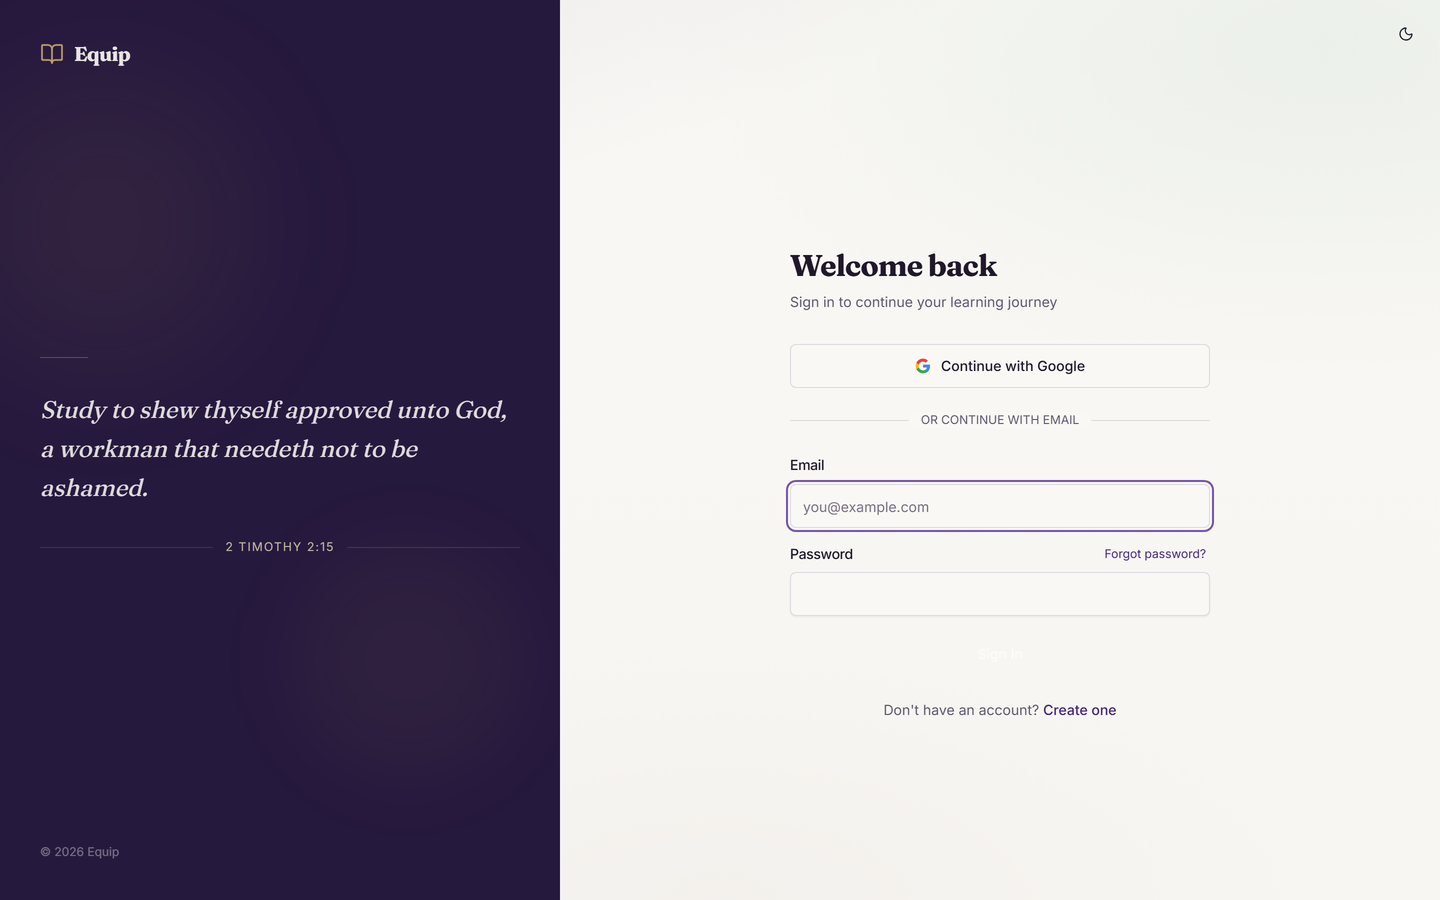
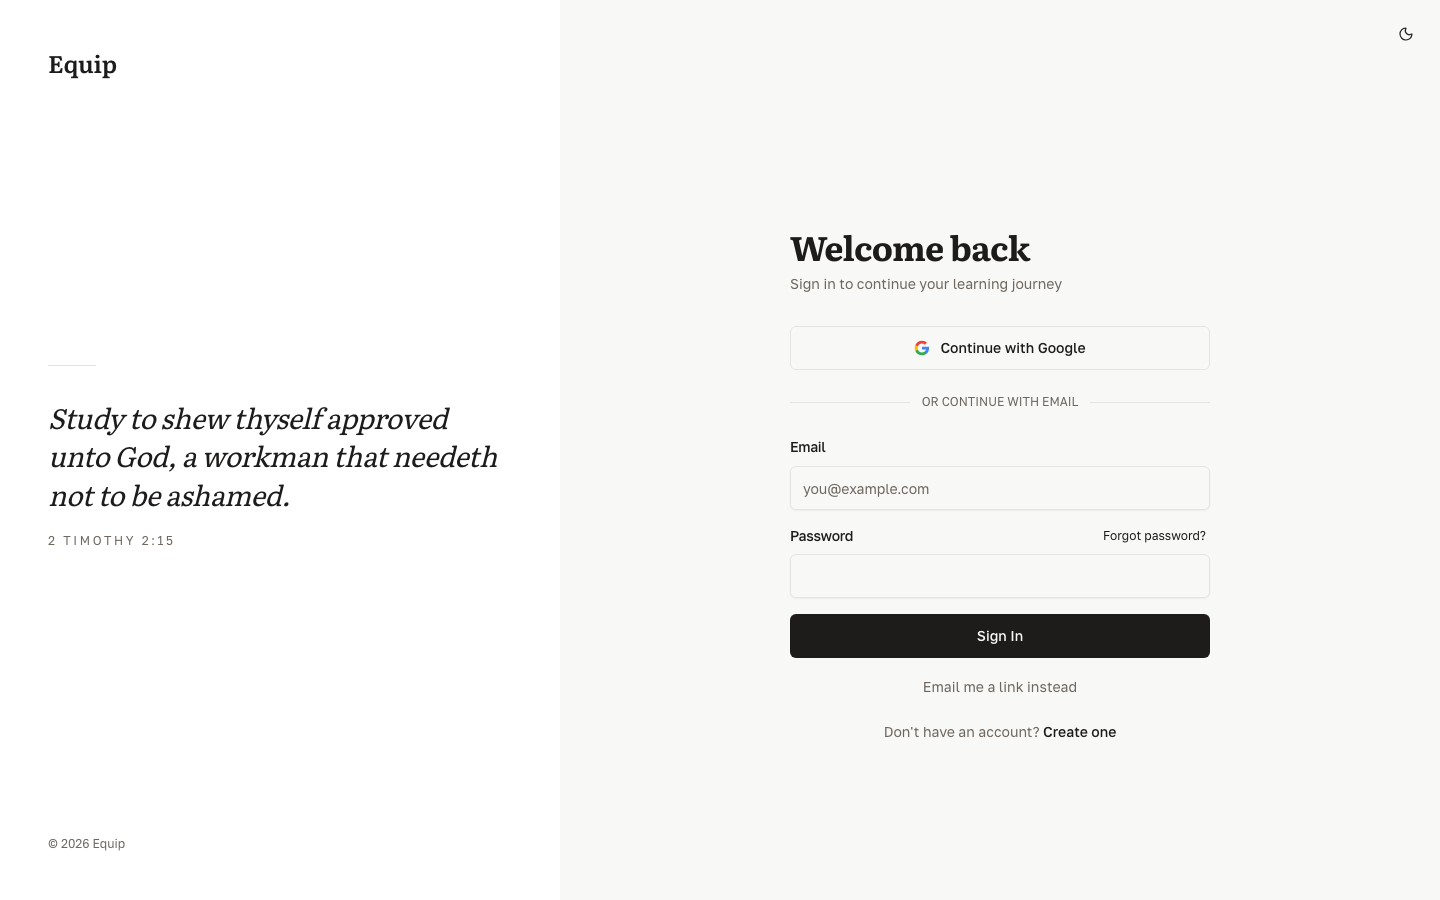
chore: tidy the public repository after the staging teardown (#1287)
* chore: remove staging leftovers from CSP, config and seed scripts

The staging deployments and api-staging.equipbible.com are gone. Drop
the host from the CSP connect-src and its test, and reword the config,
env example and seed-script notes for production, local and preview.

* docs: rename STAGING.md to E2E.md and drop staging history

The doc now describes only the local stack authenticated e2e runs on.
Links in the README, DEPLOYMENT, e2e sources and Supabase CI files are
updated; comments in frontend-e2e.yml are left for a follow-up so this
does not conflict with the Actions pinning PR.

* docs(adr): index ADR-012 and explain why numbering starts at 010

* chore: remove unused docs/marketing dev.to cover

The 1.1 MB cover carried the retired brand and nothing links to it.

* docs(security): mention private vulnerability reporting

Private vulnerability reporting is enabled on the repository, so list it
next to the support address, and state plainly that there are no tagged
releases.

* chore: remove personal email addresses from docs and scripts

Monitors and OBSERVABILITY.md now name the public support address, the
language audit takes its account from --account or EQUIP_AUDIT_EMAIL
with no default, and the initials example uses example.com.

* refactor(frontend): stop exporting helpers nothing imports

NOTIFICATION_ICONS, NOTIFICATION_COLORS, asAuthError and
onboardingFinished are only used inside their own modules.
[…]

diff --git a/frontend/src/__tests__/vercelCsp.test.ts b/frontend/src/__tests__/vercelCsp.test.ts
@@ -81,16 +81,15 @@ const REQUIRED_TOKENS: ReadonlyArray<string> = [
   "https://browser-intake-us5-datadoghq.com",
   "https://session-replay-us5-datadoghq.com",
   // Supabase endpoint (auth + REST + realtime websocket). Wildcarded to
-  // ``*.supabase.co`` so the same static CSP works for the production
-  // project AND any ephemeral staging branch (whose project ref differs
-  // and changes on every respawn). The anon key + RLS are the real
+  // ``*.supabase.co`` so the static CSP does not hard-code a project
+  // ref (a local or preview Supabase project has a different one). The
+  // anon key + RLS are the real
   // boundary; broadening from one Supabase project to "any Supabase
   // project" is a marginal relaxation, not a script-exec surface.
   "https://*.supabase.co",
   "wss://*.supabase.co",
-  // Backend API — prod + the staging deployment.
+  // Backend API (production).
   "https://api.equipbible.com",
-  "https://api-staging.equipbible.com",
   // YouTube embeds -- the only iframe origin we whitelist on the SPA.
   "https://www.youtube.com",
   "https://www.youtube-nocookie.com",

diff --git a/frontend/src/components/layout/notifications/notificationMeta.ts b/frontend/src/components/layout/notifications/notificationMeta.ts
@@ -19,7 +19,7 @@ import { formatDate } from "@/i18n/format"
  * dropdown. Consumers that want other mappings (e.g. push notifications)
  * should build their own table rather than import from here.
  */
-export const NOTIFICATION_ICONS: Record<NotificationType, typeof Bell> = {
+const NOTIFICATION_ICONS: Record<NotificationType, typeof Bell> = {
   certificate_approved: Award,
   certificate_rejected: XCircle,
   assignment_graded: ClipboardCheck,
@@ -29,7 +29,7 @@ export const NOTIFICATION_ICONS: Record<NotificationType, typeof Bell> = {
   retake_requested: RotateCcw,
 }
 
-export const NOTIFICATION_COLORS: Record<NotificationType, string> = {
+const NOTIFICATION_COLORS: Record<NotificationType, string> = {
   certificate_approved: "text-success",
   certificate_rejected: "text-destructive",
   assignment_graded: "text-info",

diff --git a/frontend/e2e/global.setup.ts b/frontend/e2e/global.setup.ts
@@ -9,7 +9,7 @@ import { getTestUser, signInViaForm, suppressOnboarding } from "./fixtures/auth"
  * Signs in as each role-test user against whatever Supabase project
  * ``VITE_SUPABASE_URL`` points at — in CI, the local stack
  * ``.github/workflows/frontend-e2e.yml`` boots per run (see
- * ``docs/STAGING.md``) — and saves the resulting browser storage state
+ * ``docs/E2E.md``) — and saves the resulting browser storage state
  * to ``playwright/.auth/<role>.json``. Each subsequent test reuses the
  * file via the role-bound fixtures in ``fixtures/auth.ts``.
  *

diff --git a/frontend/src/lib/names.ts b/frontend/src/lib/names.ts
@@ -19,8 +19,8 @@ export function firstNameOf(fullName: string | null | undefined): string | null 
 }
 
 /**
- * Two-character initials for avatar fallbacks — "Vadym Arnaut" → "VA",
- * "vadimarnaut78@gmail.com" → "VA", "Иван" → "И".
+ * Two-character initials for avatar fallbacks — "Ivan Petrov" → "IP",
+ * "ivan@example.com" → "IE", "Иван" → "И".
  *
  * Splits on whitespace AND ``@`` so an email handle yields a usable
  * pair (the part before the first ``.`` of the local-part isn't worth

diff --git a/frontend/src/components/firstRun/firstRunStep.ts b/frontend/src/components/firstRun/firstRunStep.ts
@@ -44,7 +44,7 @@ export function clearFlag(key: string): void {
  * at the catalogue. ``FirstRunFlow`` reports a cache-only pass to the server,
  * so the next device does not need the cache.
  */
-export function onboardingFinished(user: Pick<FirstRunUser, "id" | "onboarding_completed_at">): boolean {
+function onboardingFinished(user: Pick<FirstRunUser, "id" | "onboarding_completed_at">): boolean {
   return Boolean(user.onboarding_completed_at) || readFlag(firstRunCompletedKey(user.id))
 }
 

diff --git a/frontend/e2e/fixtures/auth.ts b/frontend/e2e/fixtures/auth.ts
@@ -22,7 +22,7 @@
  *
  * Path 1 is wired into CI via ``global.setup.ts`` against the local
  * Supabase stack ``.github/workflows/frontend-e2e.yml`` boots per run
- * (``docs/STAGING.md``). Path 2 (``injectSession``) has no caller yet —
+ * (``docs/E2E.md``). Path 2 (``injectSession``) has no caller yet —
  * it stays here as a documented option for a spec that wants a specific
  * signed-in state without going through the login form.
  */

diff --git a/frontend/src/lib/authError.ts b/frontend/src/lib/authError.ts
@@ -69,7 +69,7 @@ function keyByStatus(status: number | undefined): string | null {
   return null
 }
 
-export function asAuthError(err: unknown): AuthErrorish {
+function asAuthError(err: unknown): AuthErrorish {
   return typeof err === "object" && err !== null ? (err as AuthErrorish) : {}
 }
 

diff --git a/backend/scripts/audit_every_language.py b/backend/scripts/audit_every_language.py
@@ -30,12 +30,13 @@ it cannot name is reported as ``unknown`` rather than as a pass.
 
 Use
 ---
-  python -m scripts.audit_every_language                    # student's view
-  python -m scripts.audit_every_language --verbose          # every sample
+  python -m scripts.audit_every_language --account reader@example.com
+  python -m scripts.audit_every_language --account reader@example.com --verbose
 
 Needs ``SUPABASE_URL`` / ``SUPABASE_SECRET_KEY`` /
-``SUPABASE_PUBLISHABLE_KEY`` to mint a session, and ``EQUIP_API`` to
-point somewhere other than production.
+``SUPABASE_PUBLISHABLE_KEY`` to mint a session, the account to read as
+(``--account`` or ``EQUIP_AUDIT_EMAIL``; there is no default), and
+``EQUIP_API`` to point somewhere other than production.
 """
 
 from __future__ import annotations
@@ -53,7 +54,6 @@ from app.schemas.locale import LOCALE_CODES
 from app.services.language_detection import carries_language, detect_locale
 
 API = os.getenv("EQUIP_API", "https://api.equipbible.com")
-ACCOUNT = os.getenv("EQUIP_AUDIT_EMAIL", "arvavitcorp@gmail.com")
 
 # Enough of each course to be representative without turning the audit
 # into a crawl of every lesson on the platform four times over.
@@ -91,20 +91,20 @@ class Report:
         self.findings.append(Finding(surface, locale, kind, detail))
 
 
-def _session_token(client: httpx.Client) -> str:
+def _session_token(client: httpx.Client, account: str) -> str:
     url = os.environ["SUPABASE_URL"].rstrip("/")
     secret = os.environ["SUPABASE_SECRET_KEY"]
     publishable = os.environ["SUPABASE_PUBLISHABLE_KEY"]
     link = client.post(
         f"{url}/auth/v1/admin/generate_link",
         headers={"Authorization": f"Bearer {secret}", "apikey": secret},
-        json={"type": "magiclink", "email": ACCOUNT},
+        json={"type": "magiclink", "email": account},
     ).json()
     otp = link.get("email_otp") or link.get("properties", {}).get("email_otp")
     verified = client.post(
         f"{url}/auth/v1/verify",
         headers={"apikey": publishable},
-        json={"type": "magiclink", "email": ACCOUNT, "token": otp},
+        json={"type": "magiclink", "email": account, "token": otp},
     ).json()
     return str(verified["access_token"])
 
@@ -183,11 +183,18 @@ def _inspect(report: Report, surface: str, locale: str, response: httpx.Response
 def main() -> int:
     parser = argparse.ArgumentParser(description=__doc__)
     parser.add_argument("--verbose", action="store_true", help="report text the detector could not name")
+    parser.add_argument(
+        "--account",
+        default=os.getenv("EQUIP_AUDIT_EMAIL"),
+        help="email of the existing account to read as (default: $EQUIP_AUDIT_EMAIL)",
+    )
     args = parser.parse_args()
+    if not args.account:
+        parser.error("pass --account or set EQUIP_AUDIT_EMAIL")
 
     report = Report()
     with httpx.Client(timeout=60, follow_redirects=True) as client:
-        token = _session_token(client)
+        token = _session_token(client, args.account)
         auth = {"Authorization": f"Bearer {token}"}
 
         catalog = client.get(f"{API}/api/v1/courses", headers={**auth, "Accept-Language": "en"})

diff --git a/backend/scripts/seed_fat_test_course.py b/backend/scripts/seed_fat_test_course.py
@@ -12,8 +12,8 @@ per quiz-typed chapter. Designed to be idempotent: re-runs with the
 same ``--course-id`` upsert the structure rather than duplicating
 it.
 
-Run against any environment (SQLite test, Postgres dev, Supabase
-staging — never prod). The course is marked ``draft`` so a stray
+Run against any non-production database (SQLite test, local Postgres,
+the local Supabase stack from ``docs/E2E.md``) — never prod. The course is marked ``draft`` so a stray
 run against prod doesn't surface to users; promote to ``published``
 manually after eyeballing the dashboard render.
 
@@ -348,7 +348,7 @@ def _ensure_auth_user(db: Session, *, user_id: uuid.UUID, email: str) -> None:
     """``profiles.id`` FKs to ``auth.users(id)`` — on real Postgres a profile
     row can't exist without its auth row, so seed that first. SQLite test DBs
     have no ``auth`` schema, so skip there (the FK isn't materialised). These
-    are ``@seed.invalid`` identities with no password — a staging/dev tool,
+    are ``@seed.invalid`` identities with no password — a local/dev tool,
     never for prod auth. ``ON CONFLICT DO NOTHING`` keeps it idempotent.
     """
     if db.bind is None or db.bind.dialect.name != "postgresql":

diff --git a/backend/app/core/config.py b/backend/app/core/config.py
@@ -147,7 +147,7 @@ class Settings(BaseSettings):
     # link, etc). No existing Settings field carried this -- other call
     # sites hardcode "https://equipbible.com" inline (see app/main.py,
     # calendar_ical.py). Kept as a real setting (not another hardcode) so
-    # a preview/staging deployment can point invite links at itself.
+    # a local or preview deployment can point invite links at itself.
     FRONTEND_URL: str = Field(default="https://equipbible.com", description="Public frontend origin for email links")
     # ``gemini-2.5-flash-lite``, measured rather than assumed. Numbers
     # from 2026-08-17, twelve real production strings translated into

diff --git a/backend/scripts/seed_daily_challenge_bank.py b/backend/scripts/seed_daily_challenge_bank.py
@@ -18,7 +18,8 @@ Usage
 Requires
 --------
 - ``GEMINI_API_KEY`` set in the environment.
-- ``DATABASE_URL`` pointing at the target DB (prod or staging).
+- ``DATABASE_URL`` pointing at the target DB (production, or a local
+  Supabase stack for a trial run).
 - A teacher UUID with permission to create DRAFTs.
 
 Cost model

diff --git a/README.md b/README.md
@@ -40,27 +40,27 @@
 <table>
   <tr>
     <td width="50%" align="center">
-      <img src=".github/assets/screenshots/login-desktop.png" alt="Equip login page — two-column layout with scripture on the left and a clean sign-in form on the right" />
-      <br /><sub>Sign in (light)</sub>
+      <img src=".github/assets/screenshots/home-desktop.png" alt="Equip home page: the headline &quot;Study Scripture in order, not in fragments&quot; with Browse all courses and Create account buttons" />
+      <br /><sub>Home</sub>
     </td>
     <td width="50%" align="center">
-      <img src=".github/assets/screenshots/login-desktop-dark.png" alt="Equip login page in dark mode" />
-      <br /><sub>Sign in (dark)</sub>
+      <img src=".github/assets/screenshots/courses-desktop.png" alt="Equip course catalog with cover cards for published courses" />
+      <br /><sub>Course catalog — open to visitors; enrolling needs an account</sub>
     </td>
   </tr>
   <tr>
     <td width="50%" align="center">
-      <img src=".github/assets/screenshots/register-desktop.png" alt="Equip account creation form" />
-      <br /><sub>Account creation — self-signup is student-only; teachers and directors join by invitation</sub>
+      <img src=".github/assets/screenshots/login-desktop.png" alt="Equip sign-in page: a scripture column on the left, Google, email-and-password and sign-in-link options on the right" />
+      <br /><sub>Sign in — Google, email and password, or a sign-in link</sub>
     </td>
     <td width="50%" align="center">
-      <img src=".github/assets/screenshots/login-mobile.png" alt="Equip sign-in on a 390px mobile viewport" width="240" />
+      <img src=".github/assets/screenshots/home-mobile.png" alt="Equip home page on a 390px mobile viewport" width="240" />
       <br /><sub>Mobile (390px)</sub>
     </td>
   </tr>
 </table>
 
-> Live at [equipbible.com](https://equipbible.com). Teacher and admin views (gradebook, course editor, analytics) are behind sign-in &mdash; create a free account to explore.
+> Live at [equipbible.com](https://equipbible.com). Course pages, the lesson reader, and the teacher and director views (course editor, gradebook, analytics) are behind sign-in. Anyone can create a free student account; teachers join a school by invitation.
 
 ---
 
@@ -74,8 +74,8 @@ technical expertise that volunteer-run organizations simply don't have.
 **Equip** is designed to change that:
 
 - **Free forever** — MIT-licensed, no paywalls, no "premium" tiers.
-- **Simple to deploy** — one-click Vercel deploy with a free Supabase
-  database. No Docker, no servers to manage.
+- **Serverless hosting** — a Vercel frontend and backend on a Supabase
+  project. No Docker, no servers to manage.
 - **Built for small scale** — optimized for 20-100 students, not enterprise
   pricing models.
 - **Multilingual out of the box** — a teacher writes in one language and
@@ -92,8 +92,9 @@ technical expertise that volunteer-run organizations simply don't have.
 | **Assignments** | Student submissions, grading queue, automatic chapter completion |
 | **Progress tracking** | Per-chapter progress, module/course completion, enrollment management |
 | **Certificates** | Auto-generated certificates with teacher approval flow |
-| **Teacher tools** | Gradebook, analytics dashboard, cohort management, calendar, announcements |
-| **Admin tools** | User management, bulk operations, CSV export, course cloning, soft delete |
+| **Teacher tools** | Gradebook with CSV export, analytics dashboard, calendar, announcements |
+| **Schools (organizations)** | Platform staff admit a school and appoint its director; the director runs cohorts and invites teachers into the school, and a teacher invites students onto their own course. Self-signup only ever creates a student account |
+| **Admin tools** | User management, bulk role changes, course cloning, soft delete and restore |
 | **Design** | Editorial aesthetic, dark/light theme, responsive (360px+), HSL semantic tokens |
 | **Multilingual content (RU / EN / DE / UK)** | Auto-translation of all teacher-authored text via Gemini, stored per (entity, field, locale) in the `content_versions` table; canonical Scripture substituted from the published edition of each language rather than paraphrased by the model; symmetric — an author writes in their language, students read in theirs; every translation is checked against its source before a reader sees it, and a course enters the catalogue only when all four languages are in place; off-the-request-path via a cron-driven worker queue so publishing stays instant even on 100-block courses |
 | **Security** | RLS on every table, server-side HTML sanitization, CORS lockdown, audit pipeline, typed error envelope (`{code, message, context}`) for structured client handling and Datadog error tracking |
@@ -158,7 +159,7 @@ cd frontend && npm run dev                      # http://localhost:5173
 ### 4. Run tests
 
 ```bash
-cd backend  && python -m pytest tests/    # 3200+ tests (SQLite in-memory)
+cd backend  && python -m pytest tests/    # 4000+ tests (SQLite in-memory)
 cd frontend && npm run test:run           # Vitest + jsdom
 cd frontend && npm run i18n:check         # locale parity across ru / en / de / uk
 ```
@@ -208,11 +209,14 @@ what you need, an issue describing the gap is more useful than a patch.
 If you're a Bible school, ministry, or educational nonprofit considering
 this platform:
 
-- **It's free.** MIT license means you can use, modify, and deploy it with
-  zero cost.
-- **No vendor lock-in.** Host it yourself or use the free tiers of Vercel +
-  Supabase.
-- **You don't need a developer on staff.** Follow the quick start above.
+- **It's free.** The MIT license means you can use, modify, and deploy it
+  with no license fee; you pay only for whatever hosting you choose.
+- **No vendor lock-in.** The code, the schema (`supabase/migrations/`), and
+  your data are yours to move.
+- **Hosting it yourself takes someone comfortable with a terminal.** The
+  quick start above and [docs/DEPLOYMENT.md](docs/DEPLOYMENT.md) cover the
+  steps (two Vercel projects, a Supabase project, migrations, env vars).
+  The per-minute translation cron needs a paid Vercel plan.
 - **Your feedback shapes the product.** Open an issue describing what your
   school actually needs — that is what the work gets pointed at.
 
@@ -225,8 +229,8 @@ There are great LMS options out there. Equip exists in a specific gap they don't
 | | **Equip** | **Moodle** | **Google Classroom** | **Canvas LMS** |
 |---|---|---|---|---|
 | License / cost | MIT, free | GPL, free | Free | Per-user fees |
-| Self-hosted | One-click Vercel + Supabase free tier | LAMP server you maintain | SaaS only | SaaS only |
-| Setup effort | Minutes | Hours to days | None | None |
+| Self-hosted | Vercel + Supabase | LAMP server you maintain | SaaS only | SaaS only |
+| Setup effort | An afternoon | Hours to days | None | None |
 | UI | Modern, theme-aware (light + dark) | Functional, dated | Modern | Modern |
 | Scripture handling | The published edition of each language, paraphrase guard | None | None | None |
 | Multilingual content | Four languages, machine-translated and validated | Manual i18n | None | Manual i18n |
@@ -247,7 +251,7 @@ There are great LMS options out there. Equip exists in a specific gap they don't
 | Architecture | [docs/adr/](docs/adr/) — Architecture Decision Records |
 | Cross-cutting UI calls | [docs/UI-DECISIONS.md](docs/UI-DECISIONS.md) — frozen UI decisions log |
 | Shipping a change | [docs/DEPLOYMENT.md](docs/DEPLOYMENT.md) — what deploys when, the two manual steps (migrations, edge function), env vars, rollback |
-| Authenticated e2e in CI | [docs/STAGING.md](docs/STAGING.md) — the local Supabase-CLI stack `frontend-e2e.yml` boots per run (no staging environment any more) |
+| Authenticated e2e in CI | [docs/E2E.md](docs/E2E.md) — the local Supabase-CLI stack `frontend-e2e.yml` boots per run |
 | Running in production | [docs/OBSERVABILITY.md](docs/OBSERVABILITY.md) — monitoring, log forwarding, incident debugging |
 | Backup and restore | [docs/runbooks/backup-restore.md](docs/runbooks/backup-restore.md) |
 | Security model | [docs/SECURITY.md](docs/SECURITY.md) — RLS, audit log, secrets, what is backend-gated |
